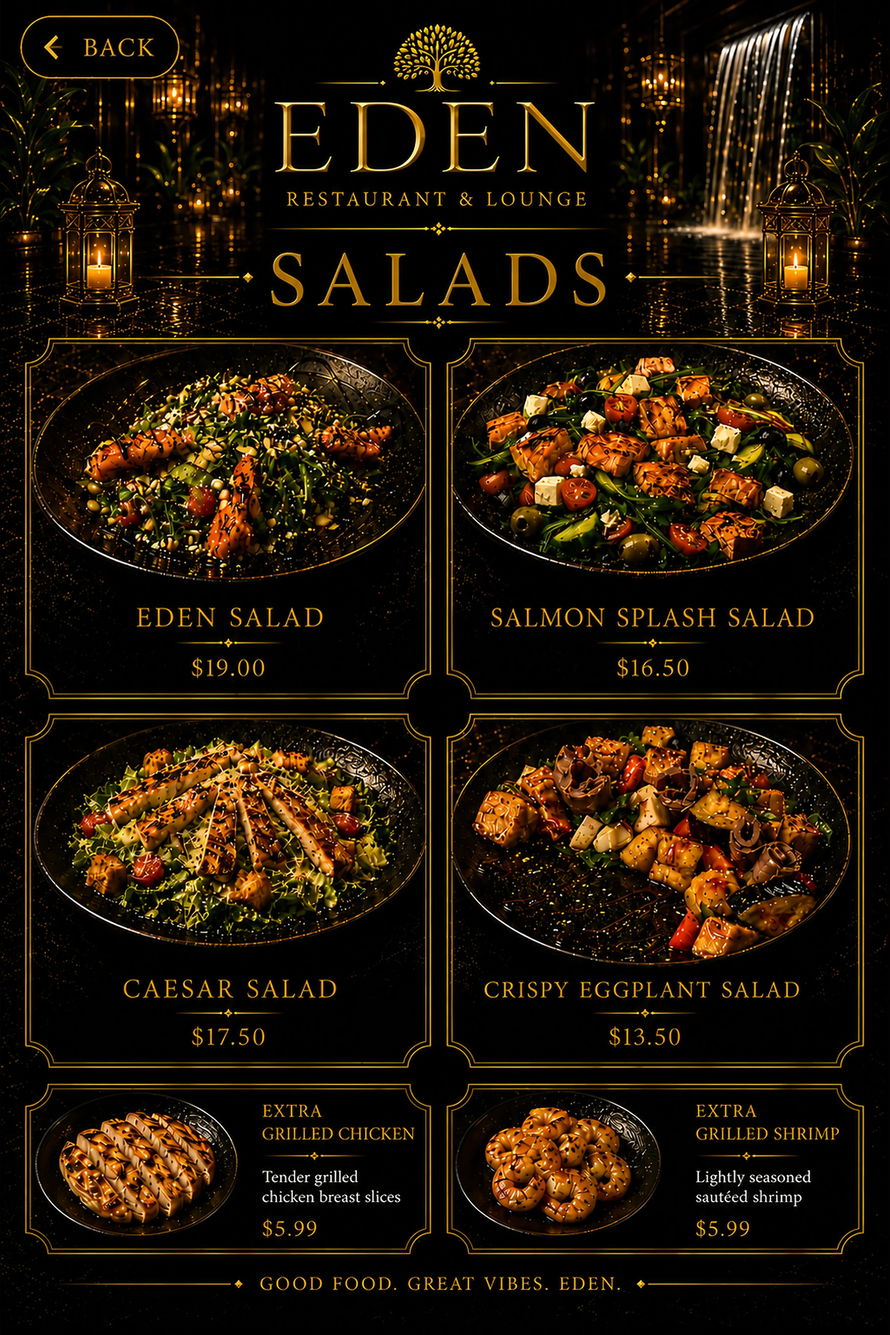
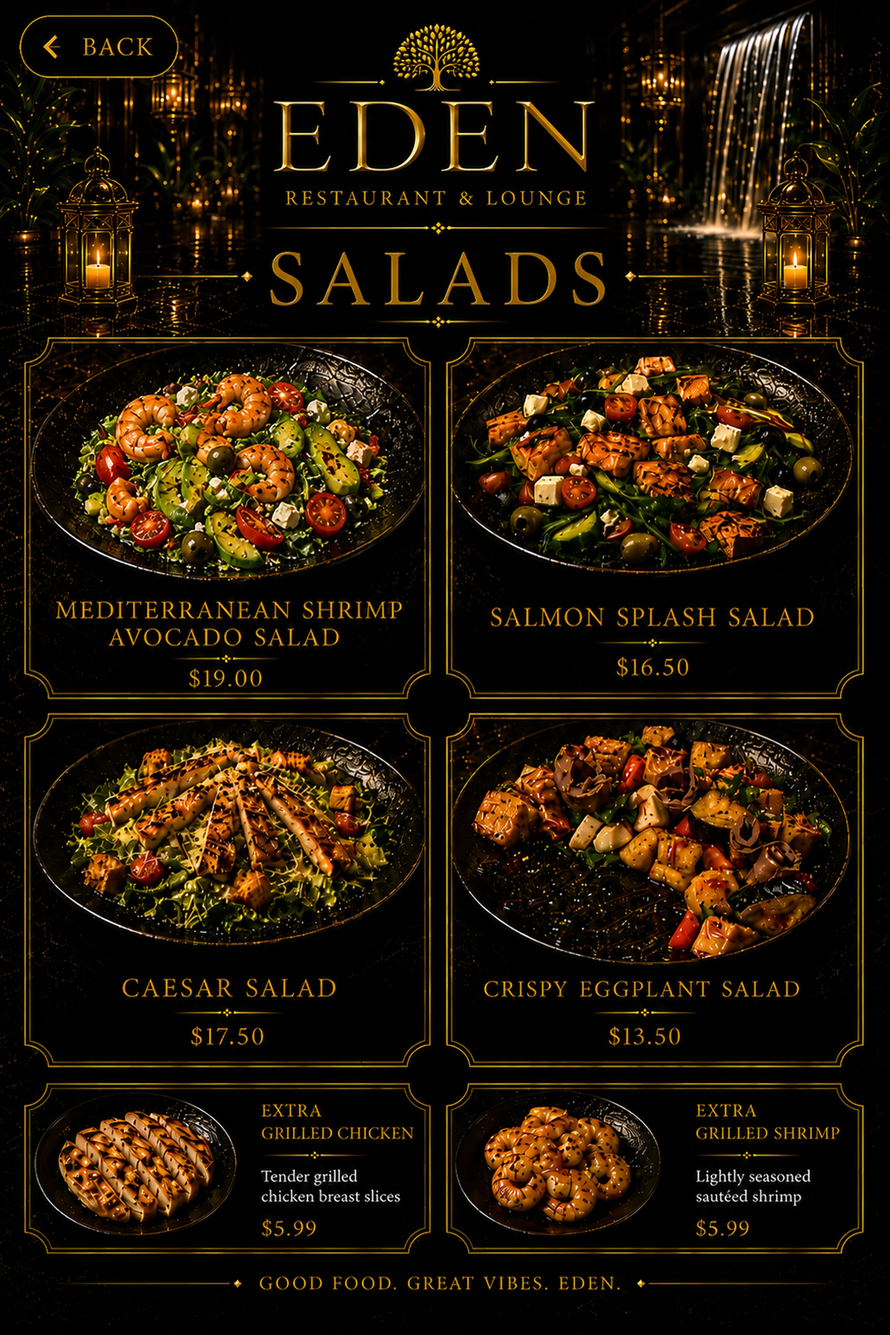
Update Mediterranean shrimp avocado salad

diff --git a/script.js b/script.js
@@ -81,7 +81,7 @@ const sectionPages = {
     aspect: "four-three"
   },
   Salads: {
-    src: "assets/salads-new-page-4k.webp",
+    src: "assets/salads-new-page-4k.webp?v=20260525-salad",
     alt: "EDEN salads page"
   },
   Sides: {
@@ -205,11 +205,11 @@ const itemGroups = {
   Salads: [
     {
       id: "eden-salad",
-      name: "Eden Salad",
+      name: "Mediterranean Shrimp Avocado Salad",
       price: "$19.00",
       image: "assets/detail-salad-eden-4k.webp",
-      description: "Shrimp, greens, feta, almonds, cherry tomatoes, herbs, and Eden balsamic glaze.",
-      ingredients: ["shrimp", "mixed greens", "feta", "almonds", "cherry tomatoes", "herbs", "balsamic glaze"],
+      description: "Mediterranean shrimp salad with avocado, greens, cherry tomatoes, olives, feta, herbs, and Eden balsamic glaze.",
+      ingredients: ["shrimp", "avocado", "mixed greens", "cherry tomatoes", "olives", "feta", "herbs", "balsamic glaze"],
       hotspot: { x: 2.2, y: 25.2, w: 46.5, h: 27.4 }
     },
     {

diff --git a/index.html b/index.html
@@ -88,7 +88,7 @@
         <button class="item-close-button" type="button" data-close-item aria-label="Close item detail"></button>
         <div class="item-copy">
           <p class="item-kicker" data-item-kicker>EDEN Salads</p>
-          <h2 data-item-title>Eden Salad</h2>
+          <h2 data-item-title>Mediterranean Shrimp Avocado Salad</h2>
           <p class="item-description" data-item-description></p>
           <div class="item-price" data-item-price>$19.00</div>
           <div class="item-options">
